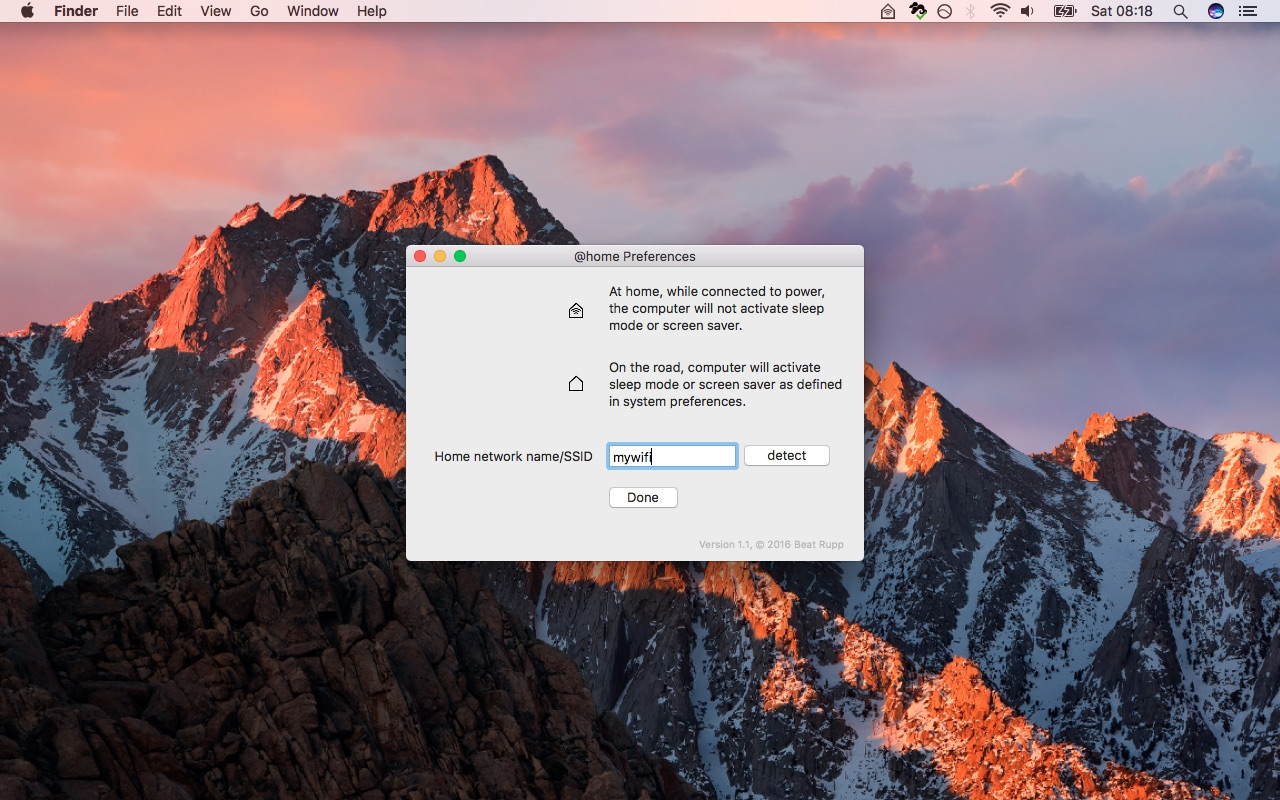
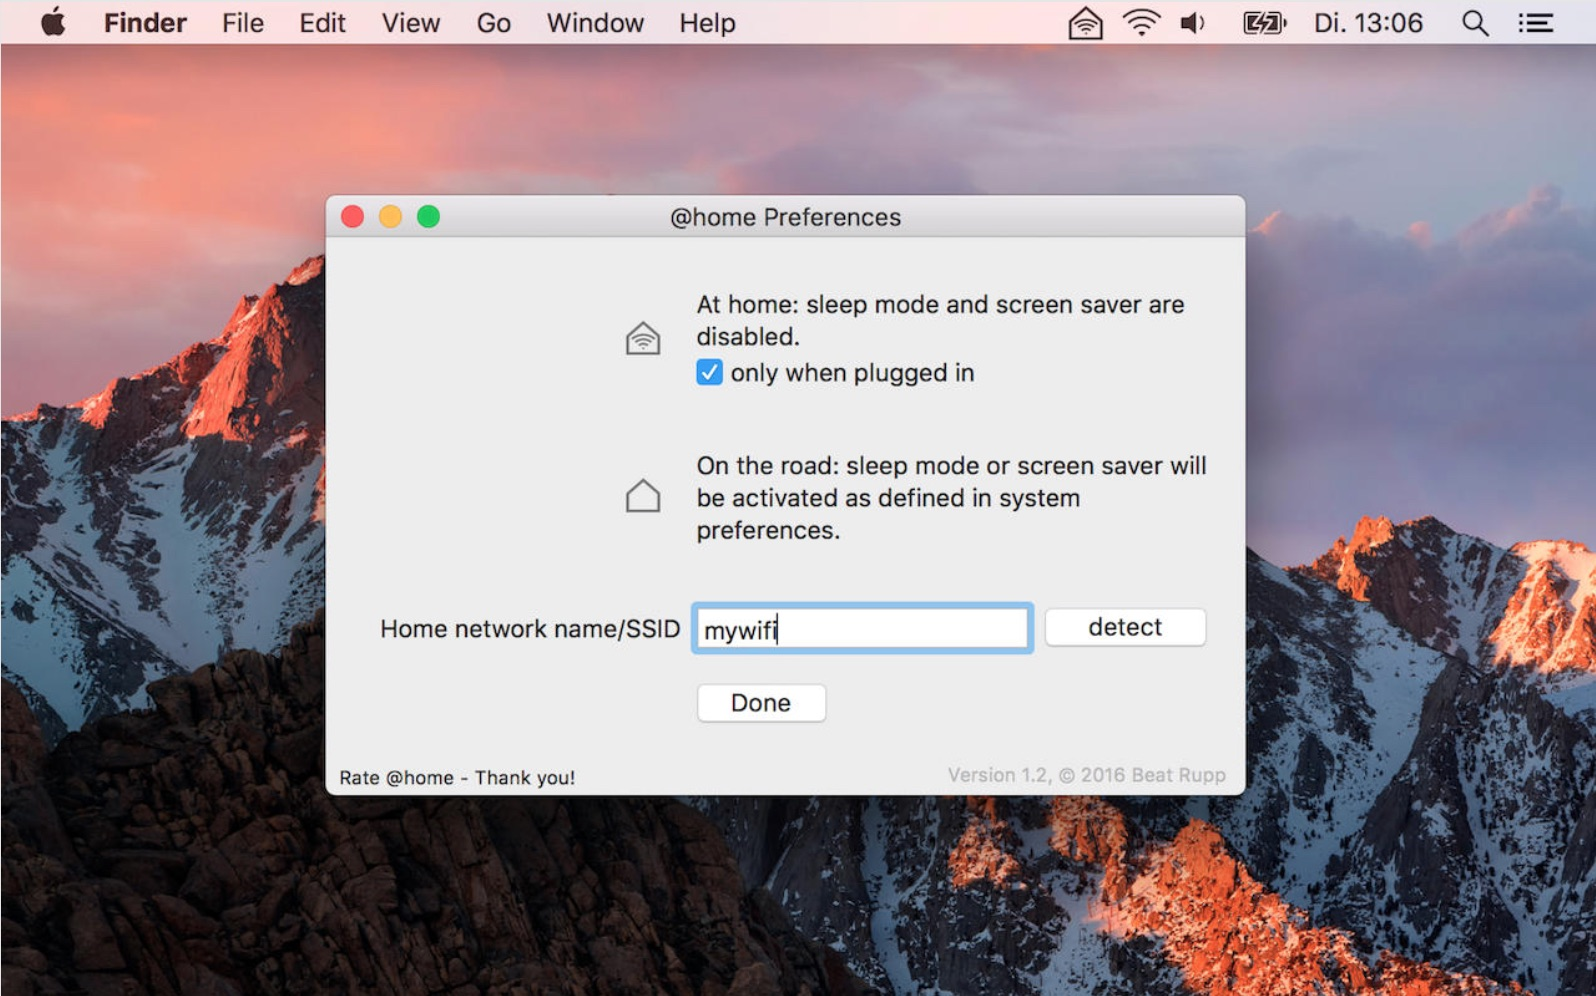
Update for version 1.2.1

diff --git a/athome/index.html b/athome/index.html
@@ -86,6 +86,10 @@ Reach out to me on beatrupp at gmail dot com
 
 <div id="changelog">
   <h2>Changelog</h2>
+  <p>Version 1.2.1, Dec 16 2016</p>
+  <p>- Option to activate @home only when plugged in<br />
+- Nicer icons, now supporting Retina displays
+  </p>
   <p>Version 1.1.0, Nov 12 2016</p>
   <p>- @home is now only active when you are connected to power (this prevents draining your battery)<br />
   - Conveniently detect the name of the network you are connected to
